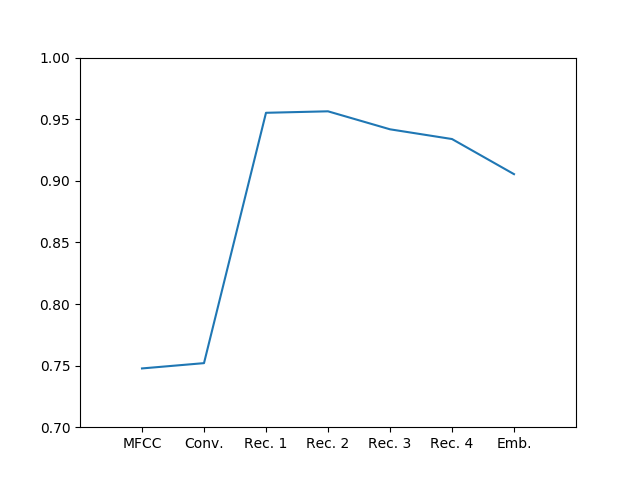
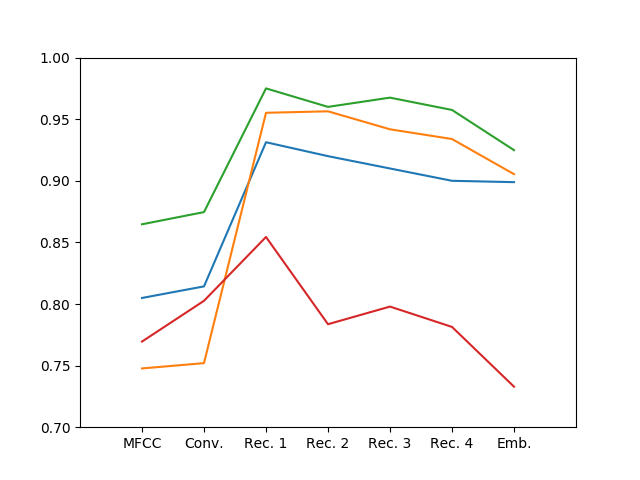
Add values for all lines

diff --git a/places/explore_places.py b/places/explore_places.py
@@ -62,12 +62,25 @@ def gender_classification_scores():
     :return:
     """
 
-    # Flickr8K gender classification F1-scores
+    # Flickr8K speaker classification F1-scores @todo add real values of Flickr8K speaker identification
     x = [1, 2, 3, 4, 5, 6, 7]
-    y = [0.7477, 0.7520, 0.9552, 0.9564, 0.9418, 0.9339, 0.9054]
+    y = [0.8049, 0.8143, 0.9313, 0.9200, 0.9100, 0.9000, 0.8989]
     my_xticks = ['MFCC', 'Conv.', 'Rec. 1', 'Rec. 2', 'Rec. 3', 'Rec. 4', 'Emb.']
     plt.xticks(x, my_xticks)
     plt.plot(x, y)
+
+    # Flickr8K gender classification F1-scores
+    y = [0.7477, 0.7520, 0.9552, 0.9564, 0.9418, 0.9339, 0.9054]
+    plt.plot(x, y)
+
+    # Places gender classification F1-scores
+    y = [0.8647, 0.8746, 0.9750, 0.9600, 0.9675, 0.9575, 0.9249]
+    plt.plot(x, y)
+
+    # Places speaker classification F1-score
+    y = [0.7695, 0.8026, 0.8544, 0.7836, 0.7979, 0.7814, 0.7329]
+    plt.plot(x, y)
+
     plt.axis([0, 8, 0.7, 1])
     plt.savefig('../img/gender-classification.png')
 
